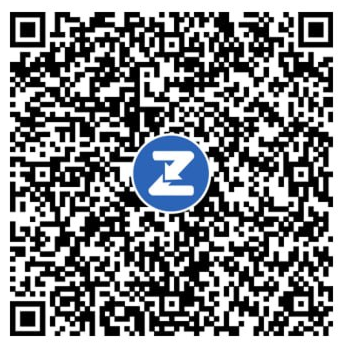
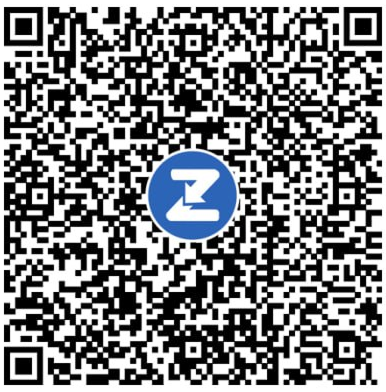
bill copy

diff --git a/assets/js/views/bill-viewer.js b/assets/js/views/bill-viewer.js
@@ -50,11 +50,12 @@
 
   /** Full bill document markup (also used for thumbnails and printing). */
   /** Bills that come as a scanned copy: shown exactly as issued, payment QR placed over the printed QR. */
-  // % of the scan, measured on bill-copy.jpg: the largest square that fits the printed QR's slot — between the top edge
-  // and the Tariff box line, right-aligned with the printed QR — so no bill text is covered. Click opens it full size.
-  const COPY_QR_BOX = { left: 76.27, top: 0.48, width: 5.47, height: 7.8 };
+  // % of the scan, measured on bill-copy.jpg: covers the QR in the scan (≈ x 1523–1643, y 0–120 px) — from the top edge
+  // down to the Tariff box's top rule (y 121), sitting on it, clear of "Hotline" and "(Office Copy)". Click opens it full size.
+  const COPY_QR_BOX = { left: 76.08, top: 0, width: 6.12, height: 8.64 };
   function billCopyHTML(b, live) {
-    const box = `left:${COPY_QR_BOX.left}%;top:${COPY_QR_BOX.top}%;width:${COPY_QR_BOX.width}%;height:${COPY_QR_BOX.height}%`;
+    const q = COPY_QR_BOX;
+    const box = `left:${q.left}%;top:${q.top}%;width:${q.width}%;height:${q.height}%`;
     const qr = `<img src="${D.QR.image}" alt="" draggable="false">`;
     return `
       <article class="bill-copy" aria-label="Electricity bill ${b.no}">
